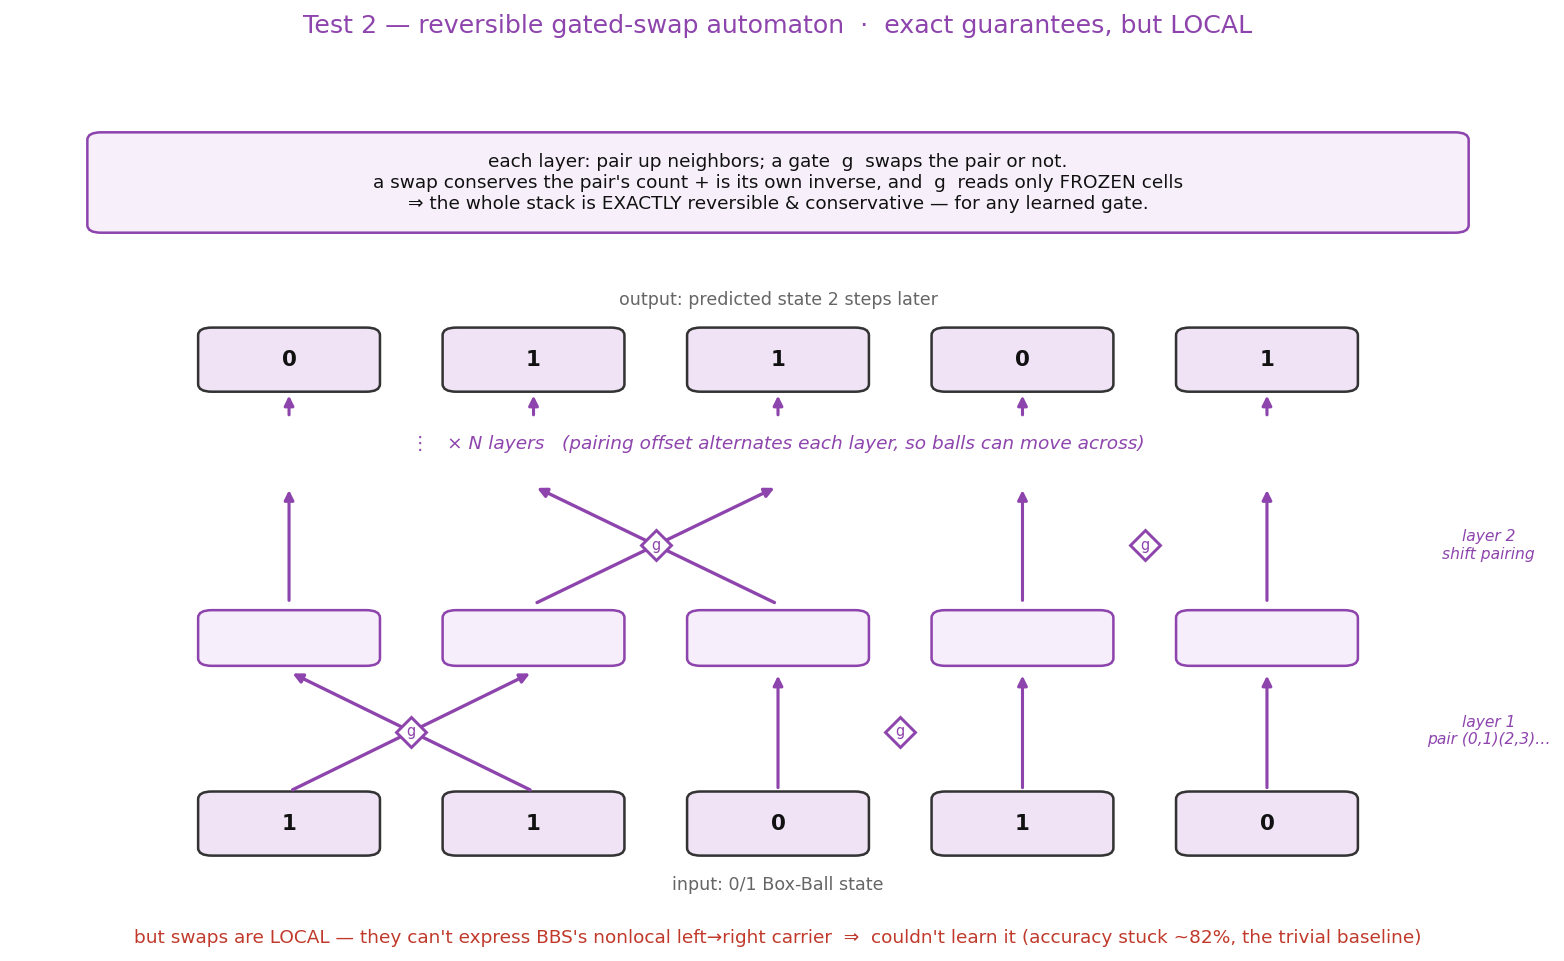
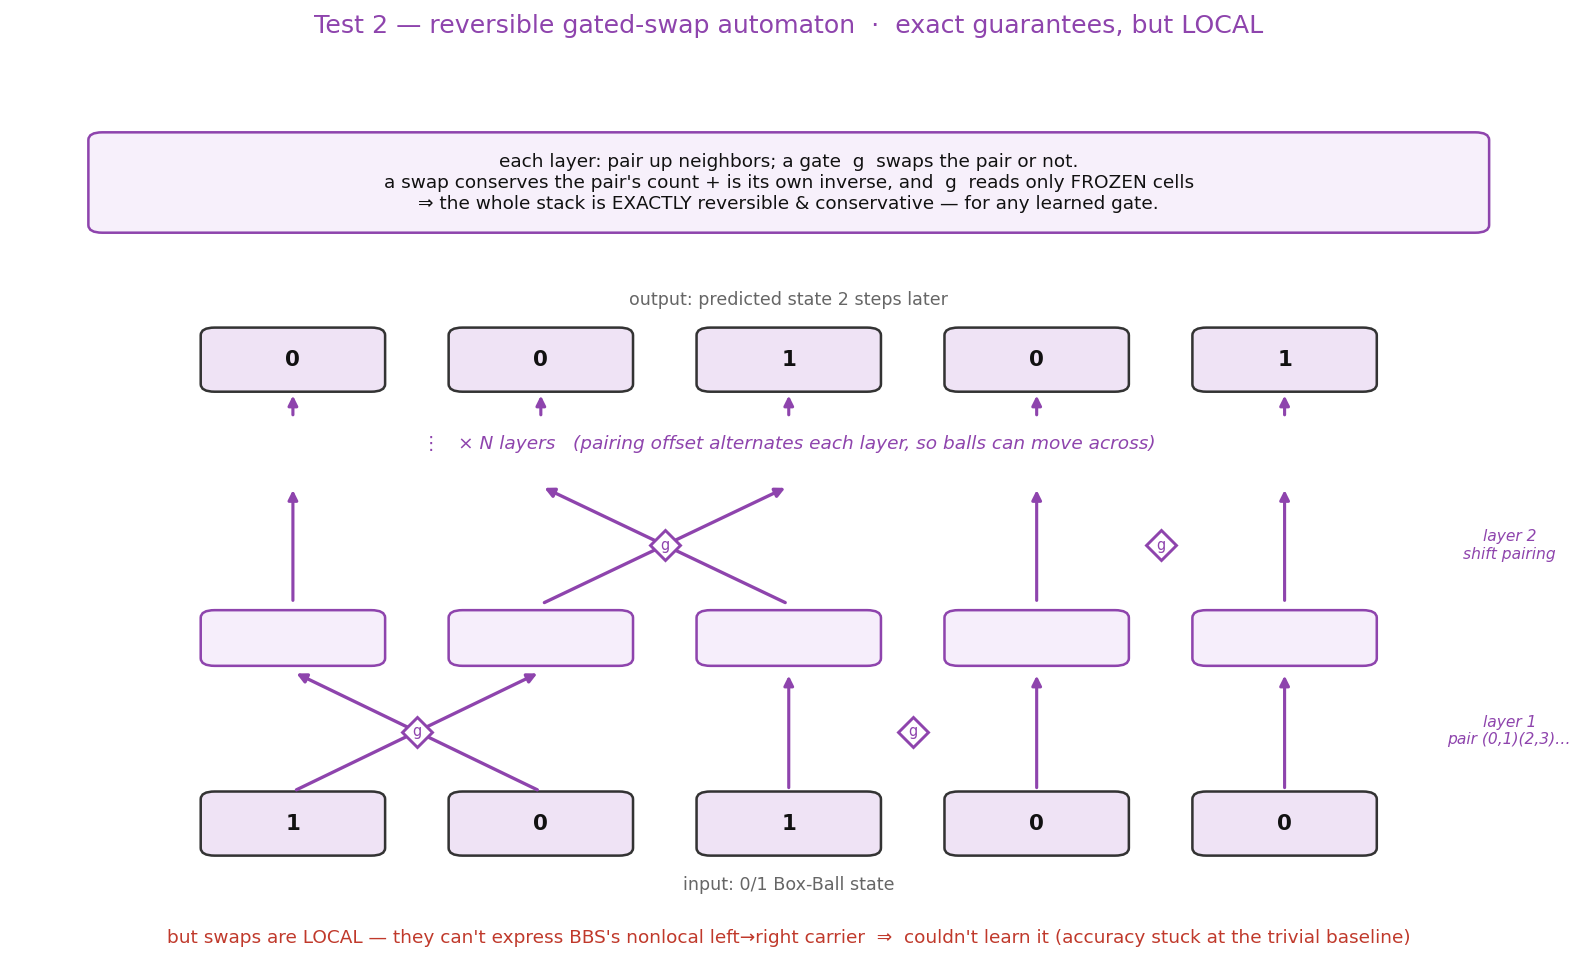
diagrams: address code review — real BBS mapping, drop hard-coded %, hygiene
- Test 1 input→output is now the REAL 2-step BBS target (import the rule; IN=[1,0,1,0,0]
  chosen so the target conserves within the 5 shown cells) instead of hand-made numbers.
- Test 2: drop the hard-coded '~82%' from the figure text (it lived only in the image and
  could drift from the README on a rerun) — now 'stuck at the trivial baseline'.
- add plt.close(fig) per figure; wrap calls in if __name__ == '__main__'.
- Test 3 diagram verified against 03_conserving_carrier.py (scalar integer carrier k +
  emit/hold IS the real implementation) — no change needed.

diff --git a/integrable_reversible/experiments/box_ball_learned_vs_transformer/architecture_diagrams.py b/integrable_reversible/experiments/box_ball_learned_vs_transformer/architecture_diagrams.py
@@ -7,13 +7,30 @@ Architecture schematics for the three models in this folder (static, no training
 
 Same task throughout: given a 0/1 Box-Ball state, predict it 2 steps later.
 """
+import numpy as np
 import matplotlib.pyplot as plt
 from matplotlib.patches import FancyBboxPatch
 
+# The input row and its 2-step target shown on the diagrams use the REAL Box-Ball
+# rule (not hand-made numbers), so the input→output is checkable. The internal
+# boxes/arrows are schematic. IN is chosen so the 2-step target conserves within
+# the 5 displayed cells (no ball falls off the right edge).
+def _bbs_step(s):
+    out = np.zeros_like(s); c = 0
+    for i in range(len(s)):
+        if s[i] == 1: c += 1; out[i] = 0
+        elif c > 0:   out[i] = 1; c -= 1
+    return out
+def _bbs_run(s, T):
+    s = s.copy()
+    for _ in range(T): s = _bbs_step(s)
+    return s
+
 BLUE, GREEN, PURPLE, RED = "#2c3e50", "#1e8449", "#8e44ad", "#c0392b"
 TOK = [1.3, 2.9, 4.5, 6.1, 7.7]
-IN  = ["1", "1", "0", "1", "0"]
-OUT = ["0", "1", "1", "0", "1"]
+IN_BITS = [1, 0, 1, 0, 0]
+IN  = [str(b) for b in IN_BITS]
+OUT = [str(b) for b in _bbs_run(np.array(IN_BITS), 2)]   # = true BBS state 2 steps later
 
 def box(ax, x, y, w, h, text, fc, ec="#333", fs=10, bold=False):
     ax.add_patch(FancyBboxPatch((x - w/2, y - h/2), w, h,
@@ -67,7 +84,7 @@ def draw_01():
             ha="center", va="top", fontsize=9.5, color=GREEN)
     fig.suptitle("Test 1 — two models, same task: predict the Box-Ball state 2 steps ahead", fontsize=14, y=0.99)
     fig.tight_layout(rect=[0, 0.04, 1, 0.96]); fig.savefig("architecture_01_transformer_vs_carrier.png", dpi=140, bbox_inches="tight")
-    print("saved architecture_01_transformer_vs_carrier.png")
+    print("saved architecture_01_transformer_vs_carrier.png"); plt.close(fig)
 
 # ══════════════════════════ Test 2 ══════════════════════════
 def pair(ax, xa, xb, y0, y1, swap, c):
@@ -102,10 +119,10 @@ def draw_02():
         "a swap conserves the pair's count + is its own inverse, and  g  reads only FROZEN cells\n"
         "⇒ the whole stack is EXACTLY reversible & conservative — for any learned gate.",
         "#f7f0fb", ec=PURPLE, fs=9.5)
-    ax.text(4.5, -0.35, "but swaps are LOCAL — they can't express BBS's nonlocal left→right carrier  ⇒  couldn't learn it (accuracy stuck ~82%, the trivial baseline)",
+    ax.text(4.5, -0.35, "but swaps are LOCAL — they can't express BBS's nonlocal left→right carrier  ⇒  couldn't learn it (accuracy stuck at the trivial baseline)",
             ha="center", va="top", fontsize=9.5, color=RED)
     fig.tight_layout(rect=[0, 0.03, 1, 0.97]); fig.savefig("architecture_02_swap_automaton.png", dpi=140, bbox_inches="tight")
-    print("saved architecture_02_swap_automaton.png")
+    print("saved architecture_02_swap_automaton.png"); plt.close(fig)
 
 # ══════════════════════════ Test 3 ══════════════════════════
 def draw_03():
@@ -130,6 +147,7 @@ def draw_03():
     ax.text(4.5, -0.35, "cell + carrier preserved at EVERY step ⇒ conserves by construction ·  'emit iff cell==0' = BBS (learned)  ·  100% acc / 100% conserved / 100% reversible",
             ha="center", va="top", fontsize=9.5, color=GREEN)
     fig.tight_layout(rect=[0, 0.03, 1, 0.97]); fig.savefig("architecture_03_conserving_carrier.png", dpi=140, bbox_inches="tight")
-    print("saved architecture_03_conserving_carrier.png")
+    print("saved architecture_03_conserving_carrier.png"); plt.close(fig)
 
-draw_01(); draw_02(); draw_03()
+if __name__ == "__main__":
+    draw_01(); draw_02(); draw_03()
